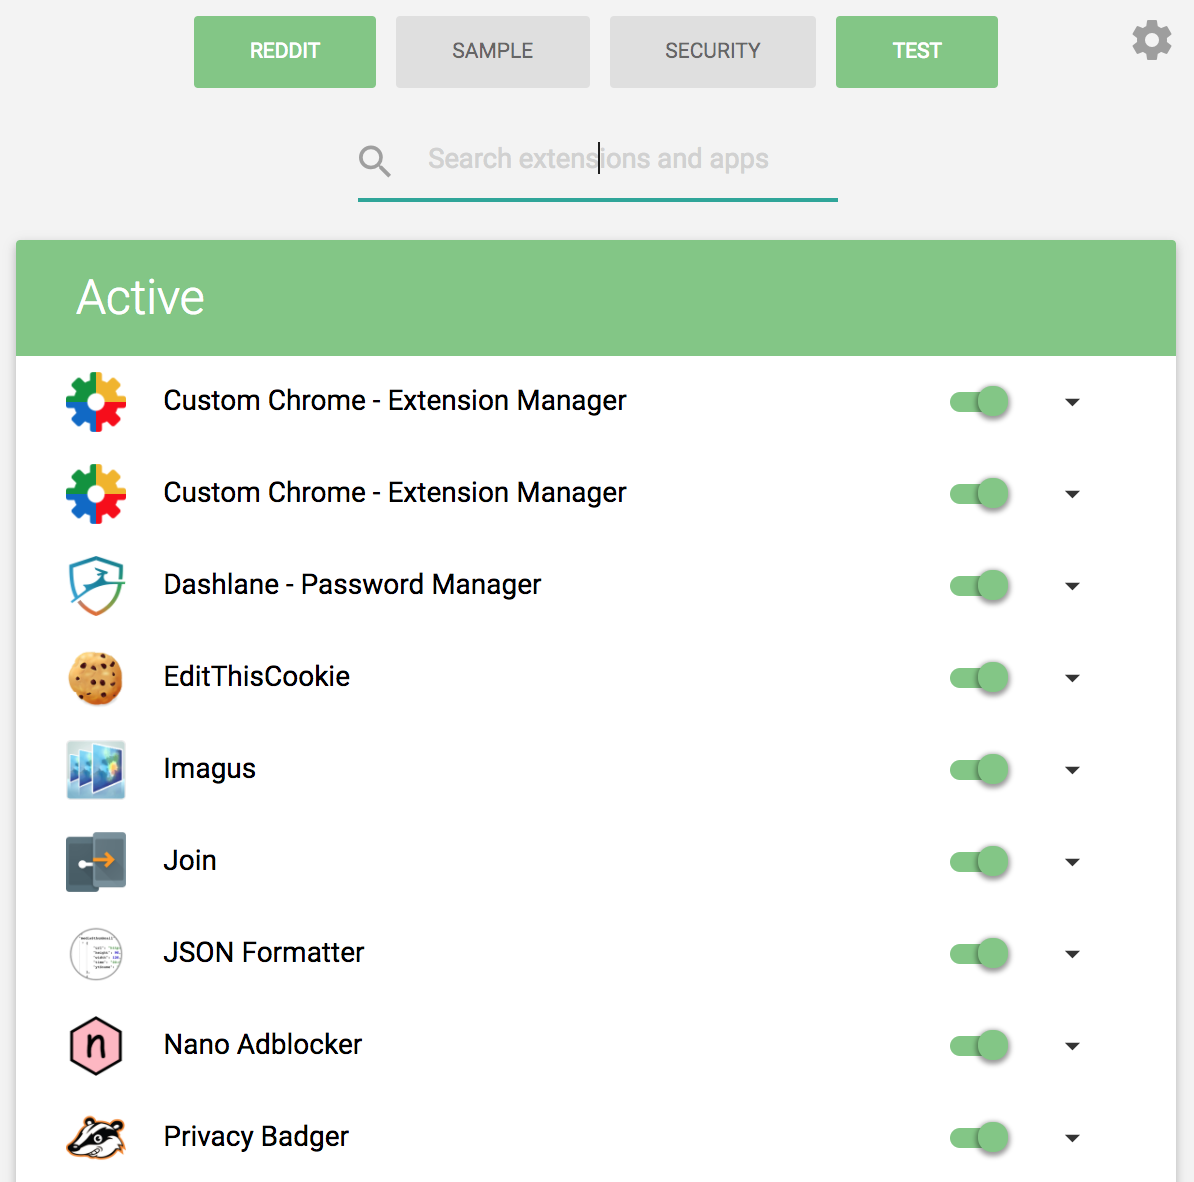
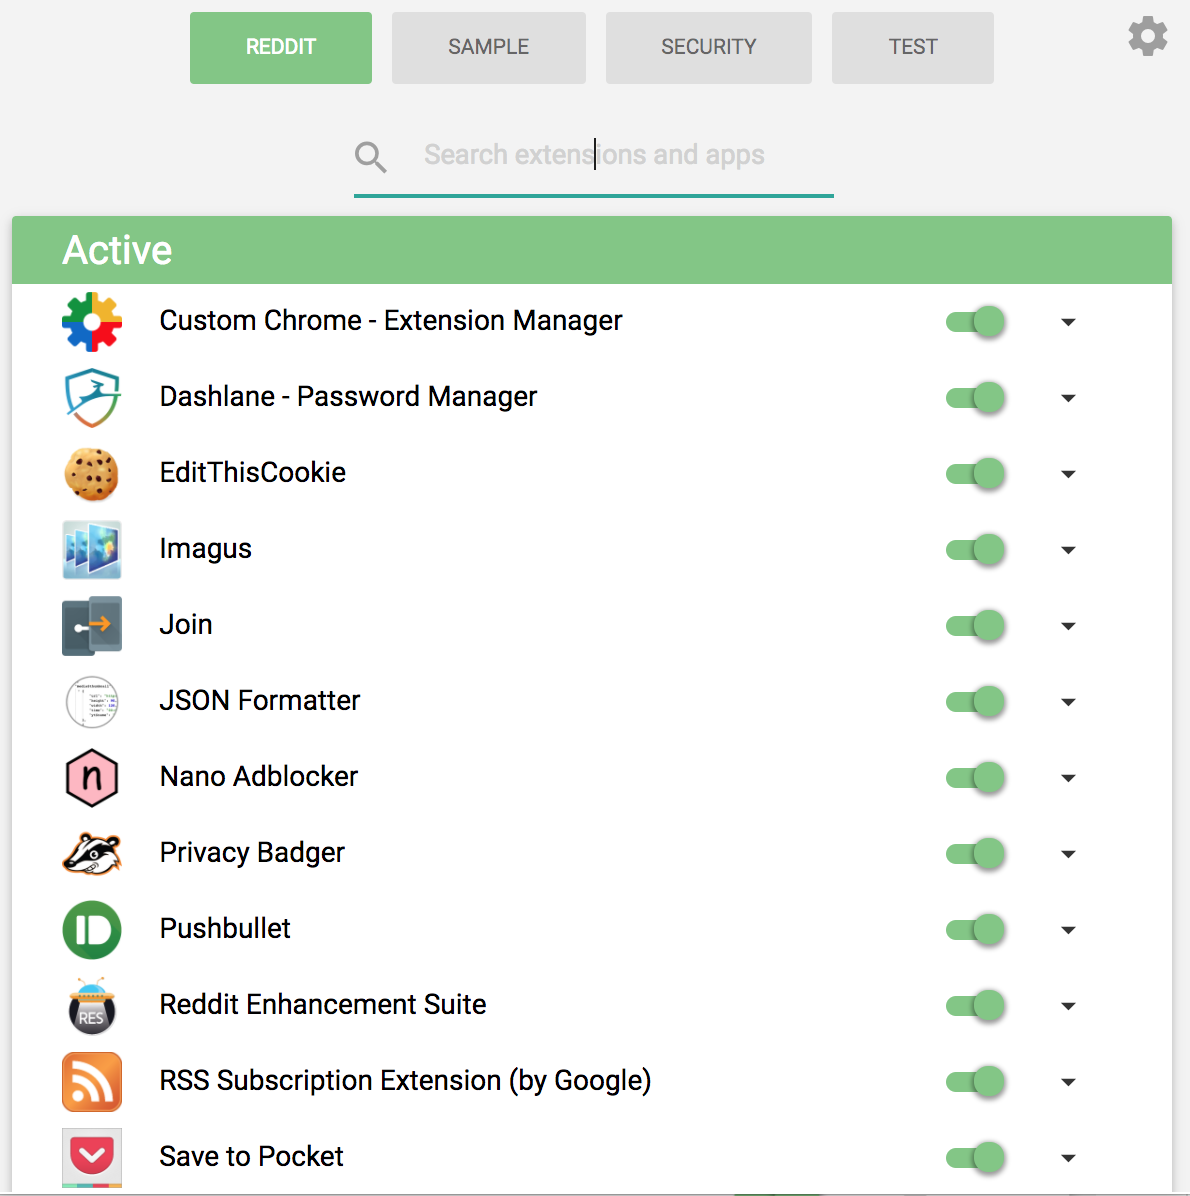
more custom styling for compact view and updated screenshot

diff --git a/style.css b/style.css
@@ -19,8 +19,12 @@ button {
 
 #profileHeader {
 	width: 100%;
-	height: 86px;
+	/*height: 86px;*/
 	background-color: #f3f3f3;
+}
+
+#profileHeader .row {
+	margin-bottom: 0px;
 }
 
 #profileHeader .btn {
@@ -167,7 +171,7 @@ a #addAProfileText {
 #searchbox {
 	text-align: center;
 	padding:0;
-	margin: 10px 0;
+	margin: 10px 0 0 0;
 	width: 40%;
 	height: 40px;
 	border:none;
@@ -259,7 +263,8 @@ a.mdi-action-settings {
 #activeTitle,
 #inactiveTitle {
 	padding: 20px 0px;
-	padding-left: 30px !important;
+	padding-left: 25px;
+	font-weight: 400;
 }
 
 #activeTitle {

diff --git a/compact-style.css b/compact-style.css
@@ -23,6 +23,12 @@
 	margin-bottom: 20px !important;
 }
 
+#activeTitle,
+#inactiveTitle {
+	line-height: initial;
+	font-size: 20px;
+}
+
 .extName {
   font-size: 14px;
 }
@@ -33,7 +39,7 @@
 }
 
 .extBlock {
-  margin: 5px 25px;
+  margin: 1px 25px;
 }
 
 .switch label .lever {
